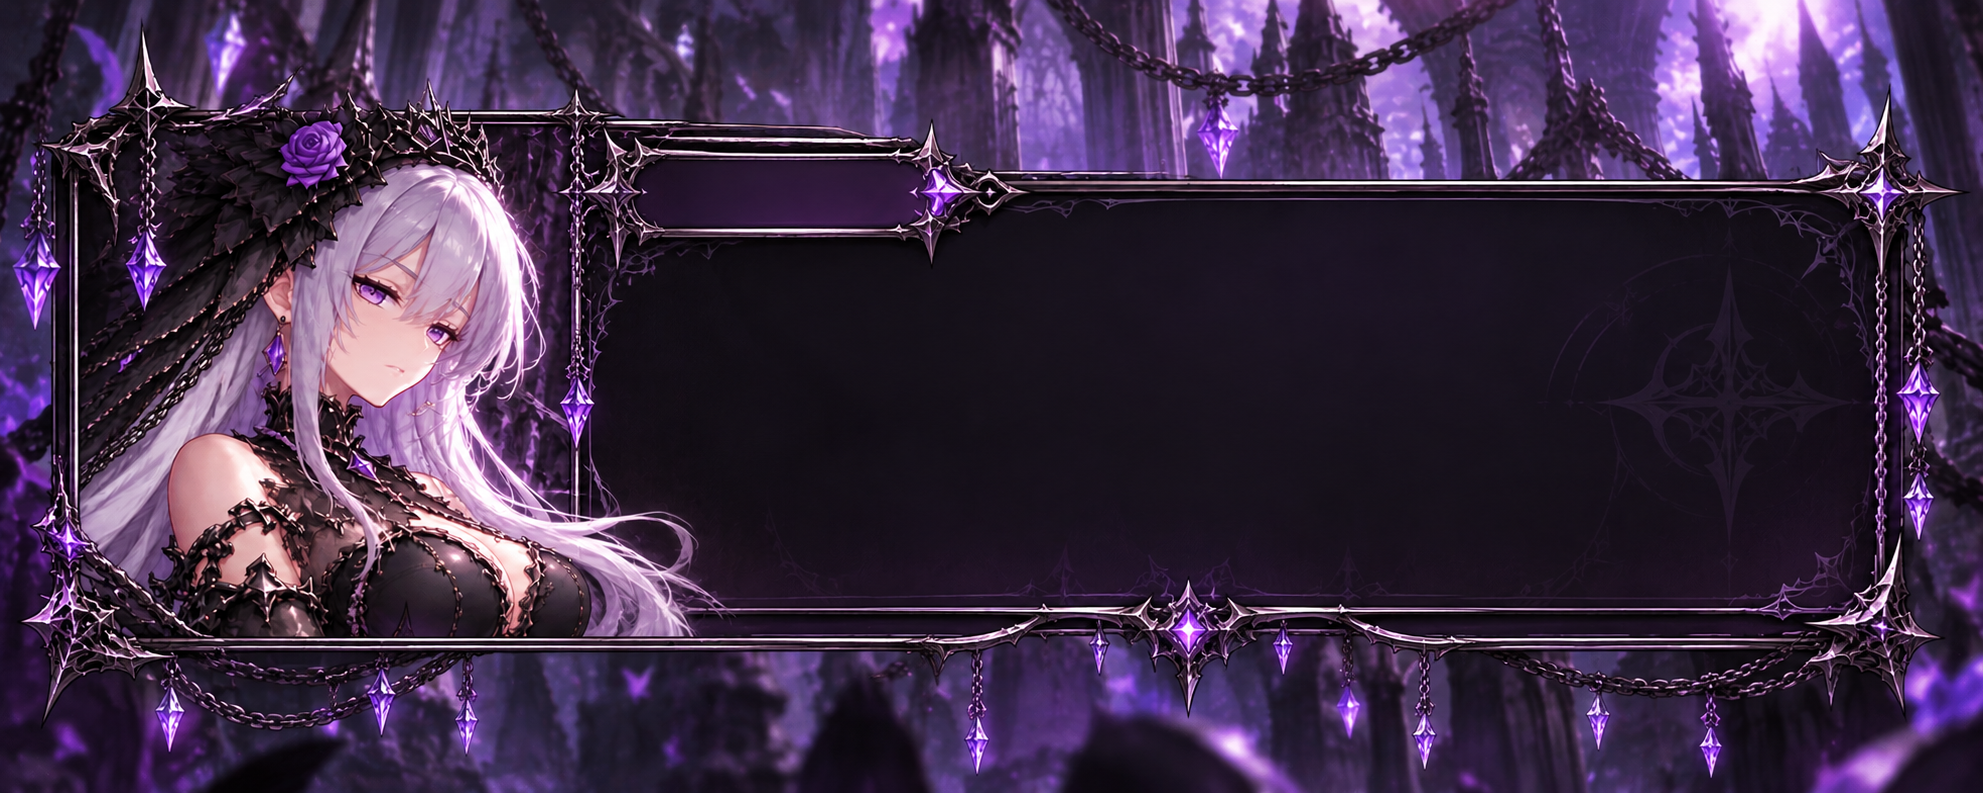
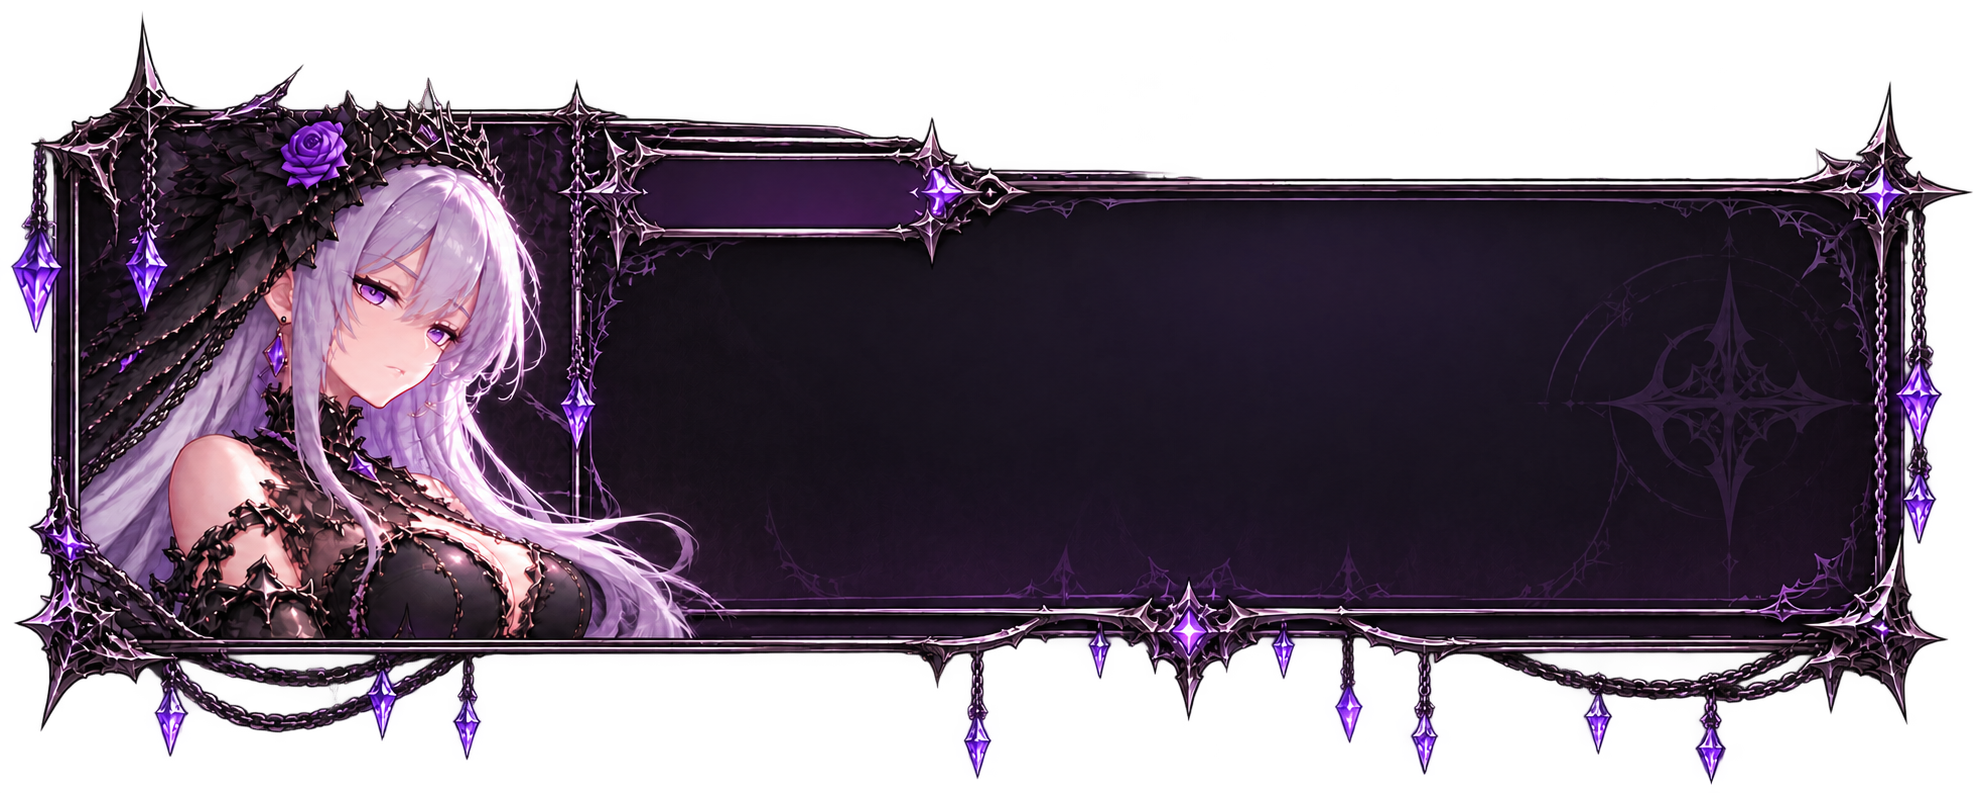
Walk to Lunabel after the final battle, return at Noa, transparent tutorial panel
- Necrosia walks up to Lunabel before her defeat cutscene so she is on
  screen (new CharacterMovement2D.SetScriptedMove for cutscenes)
- After defeating Lunabel, spawn in the village in front of Noa
- Tutorial panel frame replaced with the transparent-background version

diff --git a/Assets/Script/Runtime/Stages/LunabelDeathCutscene.cs b/Assets/Script/Runtime/Stages/LunabelDeathCutscene.cs
@@ -18,6 +18,11 @@ namespace Aethoria.Stages
     {
         private const string DefeatPath = "Art/Monsters/FinalBoss/Defeat";
         private const float DelayAfterBattle = 0.5f;
+        // 전투가 끝나면 네크로시아가 루나벨 앞 이만큼(유닛) 떨어진 자리까지 걸어간다.
+        private const float StandDistance = 2.5f;
+        private const float ArriveTolerance = 0.1f;
+        private const float WalkTimeout = 8f;
+        private const float AfterWalkPause = 0.3f;
         private const float DefeatFrameInterval = 0.16f;
         // 패배 모션 중 이 프레임(0부터)까지 재생하고 무릎 꿇은 채 대화한다. 나머지는 대화 뒤 쓰러질 때 재생한다.
         private const int KneelFrameIndex = 5;
@@ -103,9 +108,12 @@ namespace Aethoria.Stages
             while (battleUI != null && battleUI.IsOpen) yield return null;
             yield return new WaitForSeconds(DelayAfterBattle);
 
+            // 전투가 열린 자리(언덕 왼쪽)는 루나벨과 멀어서 화면에 루나벨이 안 보인다. 네크로시아가 루나벨 앞까지 걸어간다
+            // (카메라가 따라가며 루나벨이 화면에 들어온다).
             if (playerMovement != null)
             {
                 playerMovement.SetInputLocked(true);
+                yield return WalkToFront();
                 playerMovement.Face(transform.position.x >= player.transform.position.x ? Vector2.right : Vector2.left);
             }
             // 패배 프레임은 오른쪽을 보게 잘라 두었다. 플레이어가 왼쪽에 있으면 뒤집어 플레이어 쪽을 보게 한다.
@@ -153,6 +161,25 @@ namespace Aethoria.Stages
             onFinished?.Invoke();
         }
 
+        // 루나벨 앞 StandDistance만큼 떨어진 자리까지 걷는다(이미 가까우면 걷지 않는다). 막혀서 못 가도 WalkTimeout 뒤엔 멈춘다.
+        private IEnumerator WalkToFront()
+        {
+            if (player == null) yield break;
+            float side = player.transform.position.x <= transform.position.x ? -1f : 1f;
+            float targetX = transform.position.x + side * StandDistance;
+            float direction = Mathf.Sign(targetX - player.transform.position.x);
+            if (Mathf.Abs(targetX - player.transform.position.x) <= ArriveTolerance) yield break;
+
+            playerMovement.SetScriptedMove(direction);
+            for (float t = 0f; t < WalkTimeout; t += Time.deltaTime)
+            {
+                if ((targetX - player.transform.position.x) * direction <= ArriveTolerance) break;
+                yield return null;
+            }
+            playerMovement.SetScriptedMove(0f);
+            yield return new WaitForSeconds(AfterWalkPause);
+        }
+
         private static bool AdvancePressed()
         {
             var keyboard = Keyboard.current;
@@ -173,7 +200,11 @@ namespace Aethoria.Stages
         {
             if (finished) return;
             finished = true;
-            if (playerMovement != null) playerMovement.SetInputLocked(false);
+            if (playerMovement != null)
+            {
+                playerMovement.SetScriptedMove(0f);
+                playerMovement.SetInputLocked(false);
+            }
         }
 
         // 연출 도중 스테이지가 다시 지어지면 루나벨과 함께 지워지므로, 막아 둔 것들을 풀고 나간다.

diff --git a/Assets/Script/Runtime/Characters/CharacterMovement2D.cs b/Assets/Script/Runtime/Characters/CharacterMovement2D.cs
@@ -23,9 +23,11 @@ namespace Aethoria.Characters
         private bool isGrounded;
         private bool inputLocked;
         private int airJumpsUsed;
+        // 연출이 입력을 잠근 채 캐릭터를 걷게 할 때의 좌우 입력(-1/0/1). SetScriptedMove로만 바뀐다.
+        private float scriptedInput;
 
         public Vector2 FacingDirection { get; private set; } = Vector2.right;
-        public bool IsMoving => Mathf.Abs(horizontalInput) > 0.01f;
+        public bool IsMoving => Mathf.Abs(horizontalInput) > 0.01f || Mathf.Abs(scriptedInput) > 0.01f;
         public bool IsGrounded => isGrounded;
         public bool IsInputLocked => inputLocked;
         public float VerticalVelocity => body.linearVelocity.y;
@@ -53,6 +55,15 @@ namespace Aethoria.Characters
             if (locked) horizontalInput = 0f;
         }
 
+        // 연출(컷신)에서 입력을 잠근 채 캐릭터를 걷게 한다. direction: -1 왼쪽, 1 오른쪽, 0 멈춤.
+        // 걷는 동안에는 걷기 애니메이션도 그대로 돈다(IsMoving).
+        public void SetScriptedMove(float direction)
+        {
+            scriptedInput = Mathf.Clamp(direction, -1f, 1f);
+            if (Mathf.Abs(scriptedInput) > 0.01f) FacingDirection = scriptedInput > 0f ? Vector2.right : Vector2.left;
+            else if (body != null) body.linearVelocity = new Vector2(0f, body.linearVelocity.y);
+        }
+
         // 순간이동 직후처럼 입력 없이 바라보는 방향만 정해 줄 때 쓴다.
         public void Face(Vector2 direction)
         {
@@ -64,7 +75,11 @@ namespace Aethoria.Characters
             isGrounded = CheckGrounded();
             if (isGrounded) airJumpsUsed = 0;
 
-            if (inputLocked) return;
+            if (inputLocked)
+            {
+                if (Mathf.Abs(scriptedInput) > 0.01f) body.linearVelocity = new Vector2(scriptedInput * moveSpeed, body.linearVelocity.y);
+                return;
+            }
 
             body.linearVelocity = new Vector2(horizontalInput * moveSpeed, body.linearVelocity.y);
 

diff --git a/Assets/Script/Runtime/Bootstrap/GameBootstrap.cs b/Assets/Script/Runtime/Bootstrap/GameBootstrap.cs
@@ -1777,8 +1777,8 @@ namespace Aethoria.Bootstrap
             go.AddComponent<MonsterHealthBar>().Configure(newWidth: 1.6f, newVerticalOffset: 0.15f);
 
             bossHealthUI.Bind(monster, data.monsterName);
-            // 루나벨을 쓰러뜨리면 필드로 돌아와 패배 모션 → 네크로시아와의 마지막 대화 → 쓰러져 사라진 뒤 마을로 돌아간다.
-            go.AddComponent<LunabelDeathCutscene>().Initialize(player, npcDialogueUI, () => ReturnToVillage());
+            // 루나벨을 쓰러뜨리면 필드로 돌아와 패배 모션 → 네크로시아와의 마지막 대화 → 쓰러져 사라진 뒤 마을의 노아 앞으로 돌아간다.
+            go.AddComponent<LunabelDeathCutscene>().Initialize(player, npcDialogueUI, () => ReturnToVillage(spawnAtNoa: true));
 
             go.AddComponent<LunabelIntroCutscene>().Initialize(bossAI, player, npcDialogueUI, skippable: lunabelIntroSeen,
                 onShown: () => lunabelIntroSeen = true);

diff --git a/Assets/Script/Runtime/UI/TutorialUI.cs b/Assets/Script/Runtime/UI/TutorialUI.cs
@@ -91,7 +91,7 @@ namespace Aethoria.UI
             rect.offsetMax = Vector2.zero;
             panel.GetComponent<Image>().color = new Color(0f, 0f, 0f, 0.8f);
 
-            // 안내창 틀(UI/TutorialPanel, Sprite/UI/Tutorial UI 1983x793): 왼쪽에 네크로시아 초상화, 위쪽 작은 칸에 제목,
+            // 안내창 틀(UI/TutorialPanel, Sprite/UI/Tutorial_UI 1983x793): 왼쪽에 네크로시아 초상화, 위쪽 작은 칸에 제목,
             // 오른쪽 큰 어두운 칸에 본문을 쓴다. 틀 그림이 없으면 예전처럼 어두운 판에 글자만 쓴다.
             var frameTexture = Resources.Load<Texture2D>(PanelFramePath);
             var boxGO = new GameObject("Box", typeof(RectTransform), typeof(RawImage));
